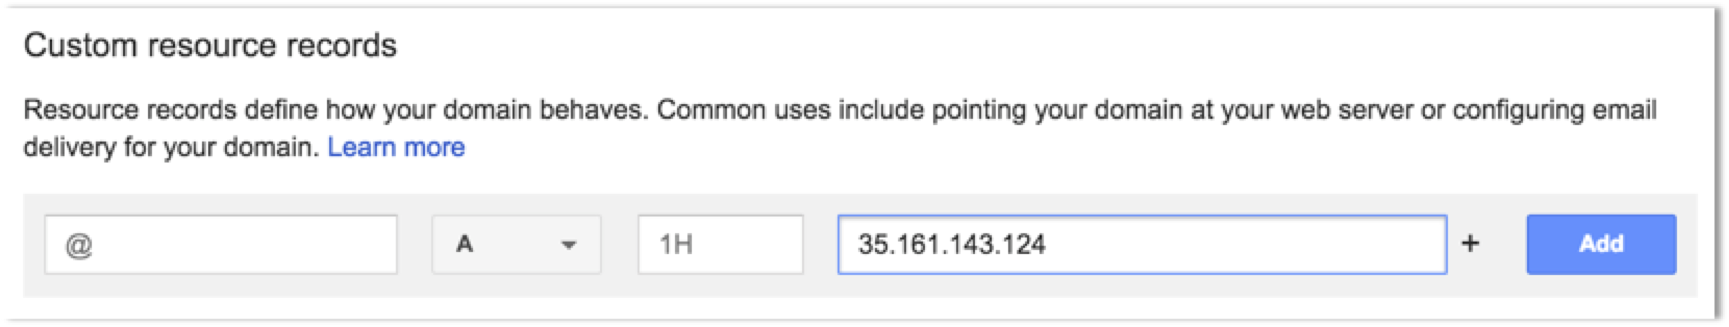
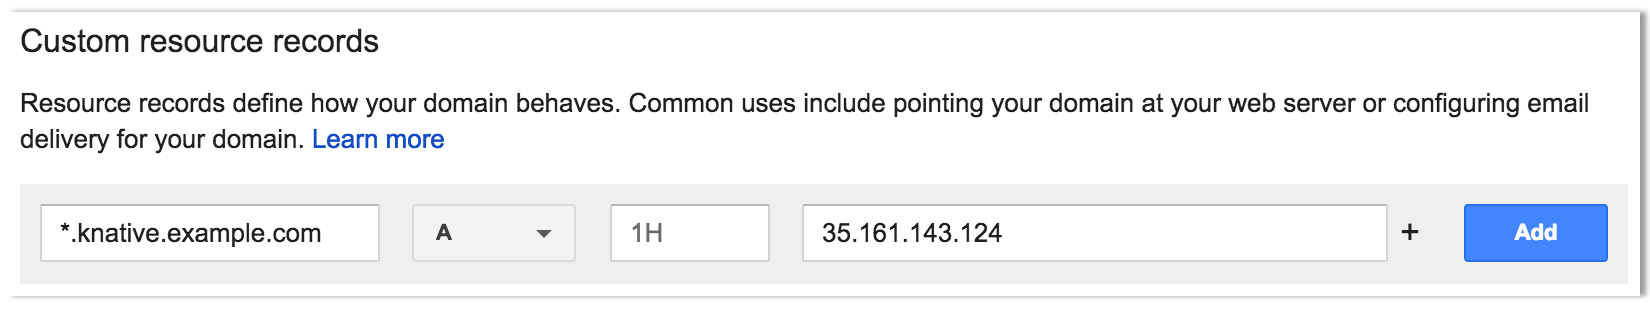
include ci-yml in body

diff --git a/doc/user/project/clusters/serverless/index.md b/doc/user/project/clusters/serverless/index.md
@@ -22,15 +22,45 @@ To run Knative on Gitlab, you will need:
     The simplest way to get started is to add a cluster using [GitLab's GKE integration](https://docs.gitlab.com/ee/user/project/clusters/#adding-and-creating-a-new-gke-cluster-via-gitlab). 
     GitLab recommends 
 1. **Helm Tiller:** Helm is a package manager for Kubernetes and is required to install 
-    all the other applications. It is installed in its own pod inside the cluster which 
-    can run the helm CLI in a safe environment.
+    all the other applications.
 1. **Domain Name:** Knative will provide its own load balancer using Istio. It will provide an 
     external IP address for all the applications served by Knative. You will be prompted to enter a 
     wildcard domain where your applications will be served. Configure your DNS server to use the 
     external IP address for that domain.
-1. **Serverless `gitlab-ci.yml` Template:** GitLab uses the [TriggerMesh CLI](https://github.com/triggermesh/tm), 
-    a serverless resource management utilty to work with knative objects. The `gitlab-ci.yml` template uses it 
-    to build and deploy knative services and functions. [Access the template here](serverless_ci_yml_template.yml).
+1. **Serverless `gitlab-ci.yml` Template:** GitLab uses [Kaniko](https://github.com/GoogleContainerTools/kaniko) 
+    to build the application and the [TriggerMesh CLI](https://github.com/triggermesh/tm), to simplify the 
+    deployment of knative services and functions.
+
+    Add the following `.gitlab-ci.yml` to the root of your repository (you may skip this step if using the sample 
+    [Knative Ruby App](https://gitlab.com/knative-examples/knative-ruby-app) mentioned below).
+
+    ```yaml
+    stages:
+    - build
+    - deploy
+
+    build:
+    stage: build
+    image:
+        name: gcr.io/kaniko-project/executor:debug
+        entrypoint: [""]
+    only:
+        - master
+    script:
+        - echo "{\"auths\":{\"$CI_REGISTRY\":{\"username\":\"$CI_REGISTRY_USER\",\"password\":\"$CI_REGISTRY_PASSWORD\"}}}" > /kaniko/.docker/config.json
+        - /kaniko/executor --context $CI_PROJECT_DIR --dockerfile $CI_PROJECT_DIR/Dockerfile --destination $CI_REGISTRY_IMAGE
+
+    deploy:
+    stage: deploy
+    image: gcr.io/triggermesh/tm@sha256:e3ee74db94d215bd297738d93577481f3e4db38013326c90d57f873df7ab41d5
+    only:
+        - master
+    environment: production
+    script:
+        - echo "$CI_REGISTRY_IMAGE"
+        - tm -n "$KUBE_NAMESPACE" --config "$KUBECONFIG" deploy service "$CI_PROJECT_NAME" --from-image "$CI_REGISTRY_IMAGE" --wait
+    ```
+
 1. **Docker File:** Knative requires a docker file in order to build your application. It should be included 
     at the root of your project's repo.
 
@@ -54,16 +84,18 @@ You may download the sample [Knative Ruby App](https://gitlab.com/knative-exampl
     kubectl get svc --namespace=istio-system knative-ingressgateway -o jsonpath='{.status.loadBalancer.ingress[0].ip} '
     ```
 
+    Output:
+
+    ```bash
+    35.161.143.124 my-machine-name:~ my-user$
+    ```
+
 1. The ingress is now available at this address and will route incoming requests to the proper service based on the DNS 
-    name in the request. To support this, a wildcard DNS A record should be created for the desired domain name.
+    name in the request. To support this, a wildcard DNS A record should be created for the desired domain name. For example, 
+    if your Knative base domain is `knative.example.com` then you need to create an A record with domain `*.knative.example.com` 
+    pointing the ip address of the ingress.
 
     ![dns entry](img/dns-entry.png)
-
-## Deploying the GitLab Runner (optional)
-
-If the project is on GitLab.com, free shared runners are available and you do not have to deploy one. If a project specific runner is desired, or there are no shared runners, it is easy to deploy one.
-
-Simply click on the "**Install**" button for the GitLab Runner. It is important to note that the runner deployed is set as privileged, which means it essentially has root access to the underlying machine. This is required to build docker images, and so is on by default.
 
 ## Deploy the application with Knative
 

diff --git a/doc/user/project/clusters/index.md b/doc/user/project/clusters/index.md
@@ -227,7 +227,7 @@ twice, which can lead to confusion during deployments.
 | [Prometheus](https://prometheus.io/docs/introduction/overview/) | 10.4+ | Prometheus is an open-source monitoring and alerting system useful to supervise your deployed applications. | [stable/prometheus](https://github.com/helm/charts/tree/master/stable/prometheus) |
 | [GitLab Runner](https://docs.gitlab.com/runner/) | 10.6+ | GitLab Runner is the open source project that is used to run your jobs and send the results back to GitLab. It is used in conjunction with [GitLab CI/CD](https://about.gitlab.com/features/gitlab-ci-cd/), the open-source continuous integration service included with GitLab that coordinates the jobs. When installing the GitLab Runner via the applications, it will run in **privileged mode** by default. Make sure you read the [security implications](#security-implications) before doing so. | [runner/gitlab-runner](https://gitlab.com/charts/gitlab-runner) |
 | [JupyterHub](http://jupyter.org/) | 11.0+ | [JupyterHub](https://jupyterhub.readthedocs.io/en/stable/) is a multi-user service for managing notebooks across a team. [Jupyter Notebooks](https://jupyter-notebook.readthedocs.io/en/latest/) provide a web-based interactive programming environment used for data analysis, visualization, and machine learning. We use [this](https://gitlab.com/gitlab-org/jupyterhub-user-image/blob/master/Dockerfile) custom Jupyter image that installs additional useful packages on top of the base Jupyter. You will also see ready-to-use DevOps Runbooks built with Nurtch's [Rubix library](https://github.com/amit1rrr/rubix). More information on creating executable runbooks can be found at [Nurtch Documentation](http://docs.nurtch.com/en/latest).  **Note**: Authentication will be enabled for any user of the GitLab server via OAuth2. HTTPS will be supported in a future release. | [jupyter/jupyterhub](https://jupyterhub.github.io/helm-chart/) |
-| [Knative](https://cloud.google.com/knative) | 0.1.2 | Knative provides a platform to create, deploy, and manage serverless workloads from a Kubernetes cluster. It is used in conjunction with, and includes [Istio](https://istio.io) to provide an external IP address for all programs hosted by Knative. You will be prompted to enter a wildcard domain where your applications will be exposed. Configure your DNS server to use the external IP address for that domain. For any application created and installed, they will be accessible as <program_name>.<kubernetes_namespace>.<domain_name>.  **Note**: This will require your kubernetes cluster to have RBAC enabled. | [knative/knative](https://storage.googleapis.com/triggermesh-charts)
+| [Knative](https://cloud.google.com/knative) | 0.1.2 | Knative provides a platform to create, deploy, and manage serverless workloads from a Kubernetes cluster. It is used in conjunction with, and includes [Istio](https://istio.io) to provide an external IP address for all programs hosted by Knative. You will be prompted to enter a wildcard domain where your applications will be exposed. Configure your DNS server to use the external IP address for that domain. For any application created and installed, they will be accessible as `<program_name>.<kubernetes_namespace>.<domain_name>`.  **Note**: This will require your kubernetes cluster to have RBAC enabled. | [knative/knative](https://storage.googleapis.com/triggermesh-charts)
 
 ## Getting the external IP address
 
